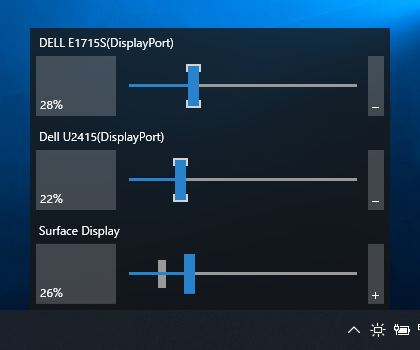
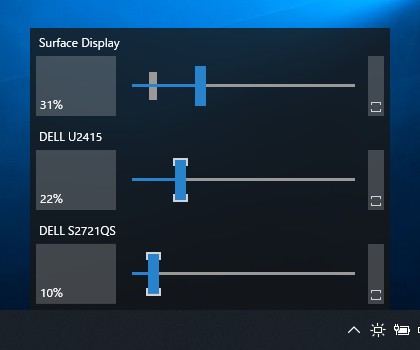
Update readme and images

diff --git a/README.md b/README.md
@@ -10,6 +10,11 @@ The user can change the brightness of monitors, including external ones, either 
 ![Screenshot](Images/Screenshot_unison.png)<br>
 (DPI: 100%)
 
+In addition, the user can change the adjustable range of brightness for each monitor seamlessly.
+
+![Screenshot](Images/Screenshot_range.png)<br>
+(DPI: 100%)
+
 ## Requirements
 
  * Windows 7 or newer
@@ -19,21 +24,11 @@ The user can change the brightness of monitors, including external ones, either 
 
 ## Download
 
-### Pre-release for testing
-
-Features:
- - Ajustable range can be changed.
- - Scan process is further adjusted.
-
-:floppy_disk: [Installer](https://github.com/emoacht/Monitorian/releases/download/2.7.1-Installer/MonitorianInstaller271.zip)
-
-### Normal release
-
  * Windows 10 Anniversary Update (1607) or newer:<br>
 [Monitorian](https://www.microsoft.com/store/apps/9nw33j738bl0) (Microsoft Store)
 
  * Other:<br>
-:floppy_disk: [Installer](https://github.com/emoacht/Monitorian/releases/download/2.4.0-Installer/MonitorianInstaller240.zip) | :floppy_disk: [Executables](https://github.com/emoacht/Monitorian/releases/download/2.4.0-Executables/Monitorian240.zip)
+:floppy_disk: [Installer](https://github.com/emoacht/Monitorian/releases/download/2.7.2-Installer/MonitorianInstaller272.zip) | :floppy_disk: [Executables](https://github.com/emoacht/Monitorian/releases/download/2.7.2-Executables/Monitorian272.zip)
 
 ## Install/Uninstall
 
@@ -101,34 +96,39 @@ An alternative language can be shown by adding a Resources (.resx) file into `/S
 
 ## History
 
-Ver 2.6.0 2020-8-10
+Ver 2.7 2020-10-30
+
+- Enable to change adjustable range
+- Adjust scan process
+
+Ver 2.6 2020-8-10
 
 - Enable to defer update of brightness
 
-Ver 2.5.0 2020-8-1
+Ver 2.5 2020-8-1
 
 - Fix issue of empty description
 
-Ver 2.4.0 2019-12-30
+Ver 2.4 2019-12-30
 
 - Improve scan process
 
-Ver 2.3.0 2019-11-28
+Ver 2.3 2019-11-28
 
 - Change scan process
 
-Ver 2.2.0 2019-11-18
+Ver 2.2 2019-11-18
 
 - Change setting to show adjusted brightness by ambient light enabled as default
 - Fix bugs
 
-Ver 2.1.0 2019-11-6
+Ver 2.1 2019-11-6
 
  - Change location to show when the icon is in overflow area
  - Change behavior when sliders are moving in unison
  - Fix bugs
 
-Ver 2.0.0 2019-8-6
+Ver 2.0 2019-8-6
 
  - Enable operation by arrow keys
  - Redesign slider
@@ -154,18 +154,6 @@ Ver 1.8.0 2018-11-24
 
  - Supplement generic monitor name with connection type
 
-Ver 1.7.4 2018-11-14
-
- - Suppress an exception
-
-Ver 1.7.2 2018-10-17
-
- - Fix an exception
-
-Ver 1.7.1 2018-10-8
-
- - Modify handling of exceptions
-
 Ver 1.7.0 2018-8-22
 
  - Improved finding monitor name for Windows 10 April 2018 Update (1803)
@@ -174,10 +162,6 @@ Ver 1.6.0 2018-5-25
 
  - Extended function to control DDC/CI connected monitor
  - Modified function to enable moving together
-
-Ver 1.5.1 2018-2-19
-
- - Refactored
 
 Ver 1.5.0 2018-2-12
 
@@ -190,18 +174,6 @@ Ver 1.4.0 2018-1-17
 Ver 1.2.4 2017-10-12
 
  - Added control by mouse wheel
-
-Ver 1.2.3 2017-5-24
-
- - Suppressed exception
-
-Ver 1.2.2 2017-4-17
-
- - Fixed issue of window location
-
-Ver 1.2.1 2017-4-3
-
- - Refactored
 
 Ver 1.2.0 2017-3-29
 
